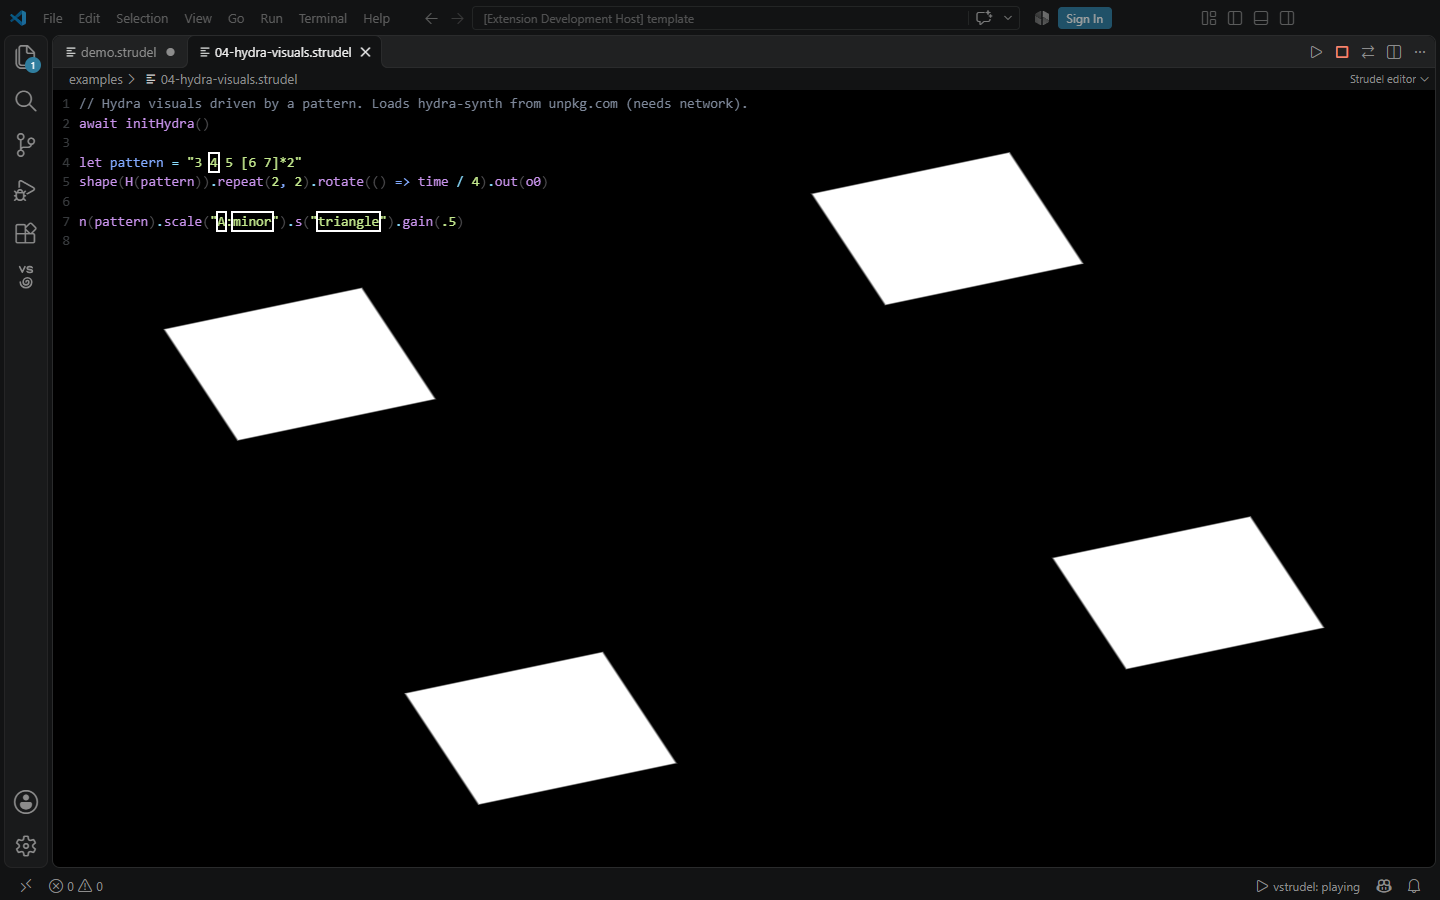
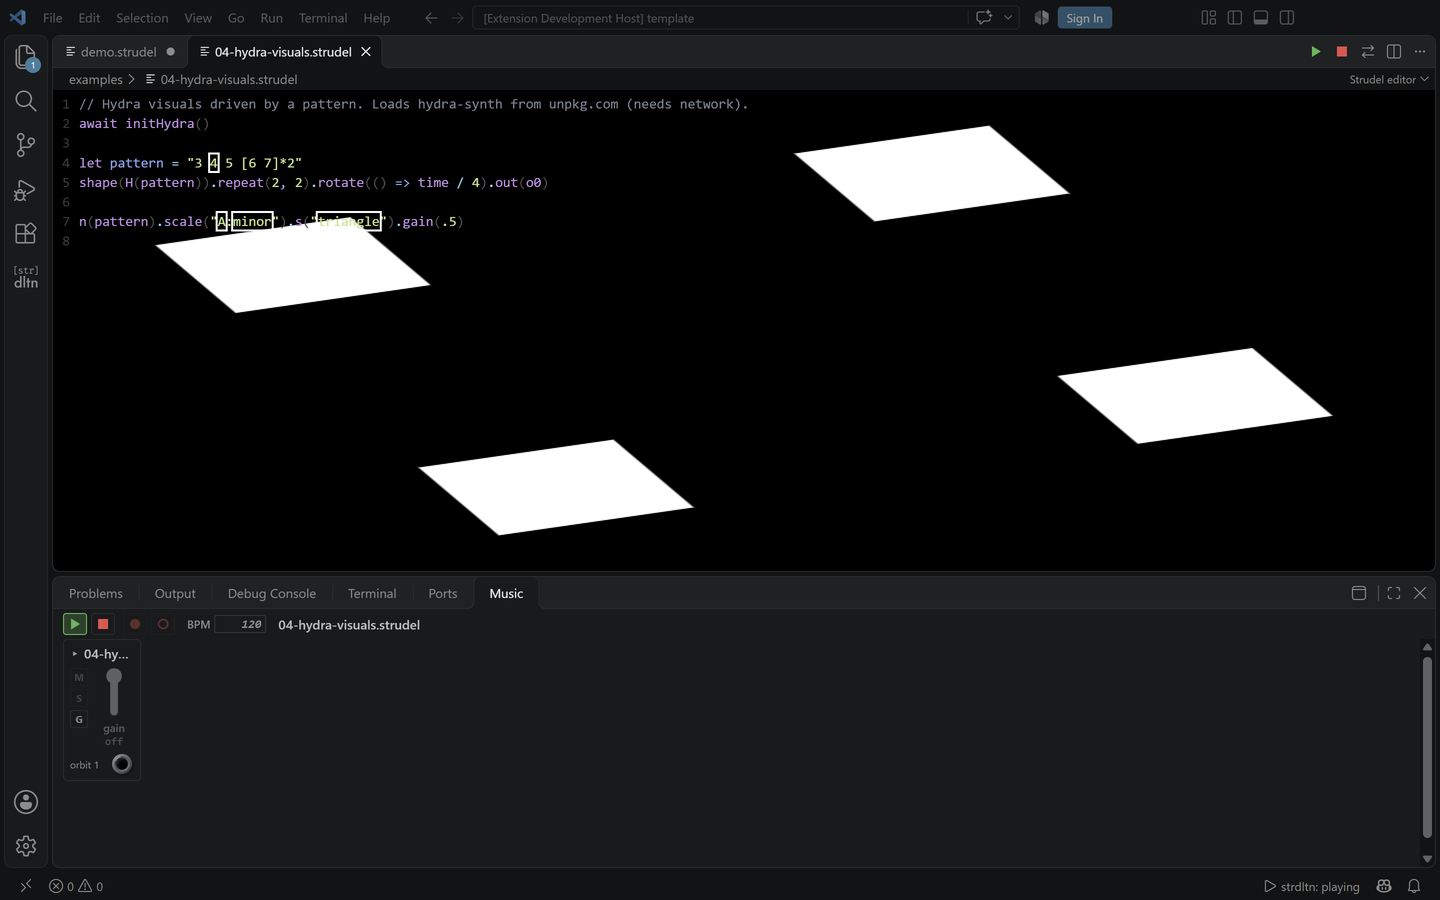
docs: add screenshots of the Music panel, the Browser and the editor to the README and the public page

diff --git a/README.md b/README.md
@@ -9,22 +9,24 @@ open a `.strudel` file.**
 
 [Strudel](https://strudel.cc) is a language for making music with code. [str]dltn Live[code] embeds
 the real Strudel, the same editor and the same sound engine as strudel.cc, and adds
-panels around it for the things a web page cannot give you:
+panels around it for the things a web page cannot give you, in the manner of Ableton
+Live:
 
-- **Files**: the songs of your project, without everything else.
-- **Sounds**: every instrument you can play, to browse, hear and insert. Drum machines
-  by bank, synths, soundfonts, and your own samples.
-- **Snippets**: your own library of reusable code, with a description and a preview of
-  each piece, one click away from your song.
+- **Music panel**: a mixer for the song you play, with a strip per part, faders, mute,
+  solo, sidechain cables you drag, Play, Stop and BPM. Every change is plain Strudel code.
+- **Browser**: every sound, snippet, song and function, with one search, colors and tags.
+  Click a sound to hear it, even with no song open.
 - **Your files**: songs, samples and snippets are plain files in a folder, so they work
   with git, search and everything else in your editor.
+
+![demo.strudel playing: the Strudel editor, the Browser on the left, the Music panel below](doc/screenshot-overview.png)
 
 It also runs in **GitHub Codespaces**. That gives a second way to use it: keep each
 music project as a repository and open it in a browser from any machine, with nothing
 installed. Fork this repository, open your fork in a Codespace, and start from the
 `template/` folder.
 
-Free and open source, AGPL-3.0-or-later like Strudel. **Version 0.0.1.** See
+Free and open source, AGPL-3.0-or-later like Strudel. **Version 0.2.0.** See
 `doc/TODO.md` for what is missing.
 
 This project is a fork of [vstrudel](https://github.com/alienmind/vstrudel). We forked
@@ -166,15 +168,33 @@ playing. Hydra visuals work too.
 
 A button in the title bar switches the same file to the native VS Code editor, for
 bigger edits with your own keys, extensions and AI completion. Press play there and a
-stage opens beside the code. It lists the sliders of the song, then its visuals. Each
-row is named from your code: the name of the pattern (`$kick:`), the name of a variable,
-the comment above the line, or the code itself. Drag a slider there and the number in
-the code follows.
+stage opens below the code with the visuals of the song. Each is named from your code:
+the name of the pattern (`$kick:`), the name of a variable, the comment above the line,
+or the code itself. The sliders are faders in the Music panel.
+
+![The native editor with the stage below it and the Music panel](doc/screenshot-stage.png)
+
+[Hydra](https://hydra.ojack.xyz) works as on strudel.cc: call `initHydra()` and the
+visuals draw behind your code, driven by your pattern.
+
+![Hydra shapes behind the code](doc/screenshot-hydra.png)
 
 Edits made outside the editor, by git or by an agent, show up at once, even while the
 song plays.
 
+### The Music panel
+
+![The Music panel: Play, Stop, BPM, and a strip per part with faders, M, S, G and sidechain cables](doc/screenshot-music.png)
+
+The bottom panel has a tab called Music, the control panel of the song in front. Each
+part of the song (`$kick:`, `bass:`) is a strip with its faders. M mutes, S solos, G adds
+or removes a gain fader. Drag from the jack at the foot of a strip onto another strip and
+the first ducks the second (`.duck()`); pull the cable off to stop. Type a BPM to set the
+tempo. Every change is an edit of the song, so undo takes it back.
+
 ### The Browser
+
+<img src="doc/screenshot-browser.png" alt="The Browser: Library with the search and colors, Songs and Snippets, Reference, and Results" width="300" align="right">
 
 The [str]dltn Live[code] icon in the activity bar opens the Browser, four views that
 each fold and move on their own. The first three pick what is shown, the last shows it.

diff --git a/doc/ABOUT.md b/doc/ABOUT.md
@@ -16,7 +16,7 @@ engine, and adds panels around it, in the manner of Ableton Live: a browser of e
 sound, snippet, song and function, a Music panel with a mixer for the song you play, and
 your music as plain files in a project.
 
-![The Strudel editor in VS Code, with the Sounds and Snippets views](screenshot-sounds.png)
+![demo.strudel playing: the Strudel editor, the Browser on the left, the Music panel below](screenshot-overview.png)
 
 [Download the latest release](https://github.com/alienmind/strdltn/releases/latest) | [Source on GitHub](https://github.com/alienmind/strdltn)
 
@@ -113,13 +113,13 @@ it because the scope grew beyond a VS Code extension.
 
 ### The Strudel editor
 
-![The Strudel editor playing a song](screenshot-editor.png)
-
 [str]dltn Live[code] does not imitate Strudel. It hosts the upstream Strudel packages, so you get
 the same editor and engine as on strudel.cc, and new Strudel features arrive with a
 version bump.
 
 ### The Music panel
+
+![The Music panel: Play, Stop, BPM, and a strip per part with faders, M, S, G and sidechain cables](screenshot-music.png)
 
 The bottom panel has a tab called Music. It shows the song in front as a mixer: a strip
 for each part, with its faders, M, S and G, and orange cables for the sidechain. Drag
@@ -128,6 +128,8 @@ the code gets `.duck("2")` and, if needed, an `.orbit()` of its own for the targ
 change is an edit of the song, so undo takes it back and the song stays plain Strudel.
 
 ### Sounds
+
+<img src="screenshot-browser.png" alt="The Browser: Library with the search and colors, Songs and Snippets, Reference, and Results" width="300" align="right">
 
 The **Library** lists what the engine can play, and **Results** shows what you pick.
 Click a sound to hear it, even with no song open. The buttons on the row type it where
@@ -194,7 +196,7 @@ One button in the title bar switches a file between two editors:
   other extensions, AI completion. Press play there and a **stage** opens beside the
   code.
 
-![The native editor on the left, the stage on the right](screenshot-stage.png)
+![The native editor with the stage below it and the Music panel](screenshot-stage.png)
 
 The stage shows the visuals of the song. Each one is named from your code: the name of
 the pattern (`$kick:`), the name of a variable, the comment above the line, or the code

diff --git a/doc/ARCHITECTURE.md b/doc/ARCHITECTURE.md
@@ -378,6 +378,17 @@ samples and the packs of its songs, and is for a workspace that has no list yet.
 of a running engine always replaces the kept one. Preview needs an engine and says so.
 We chose a kept list over an engine of its own, see the drawer.
 
+**Screenshots.** The pictures in `doc/` (`screenshot-*.png`, used by the README and
+`doc/ABOUT.md`) come from the integration test. Its last step ("9. Pictures for
+README.md and doc/ABOUT.md") plays `demo.strudel` in the Strudel editor, shows the
+Library on Drums with the TR-909 open in Results and the Music panel with bass unfolded,
+and saves `tmp/shots/doc-overview.png`. From a run of `pnpm test:vscode` (the Hydra and
+stage shots only come from the full run), the pictures are cut by hand with Pillow:
+`screenshot-overview.png`, `-stage.png` and `-hydra.png` are the whole window at half
+size (1440 by 900), `-music.png` and `-browser.png` are the Music panel and the side bar
+cut out of the overview, at half size. The window title says "[Extension Development
+Host]" (decision 11 of `doc/TODO.md`). Made on 2026-11-21 for 0.2.0.
+
 **Logo and icons.** The Browser has no logo any more: the maintainer took it out on
 2026-11-21 (its colors did not match the theme and it took room), and `media/logo.jpg`
 went with it. `doc/logo.jpg` stays for the README and `doc/ABOUT.md`.
